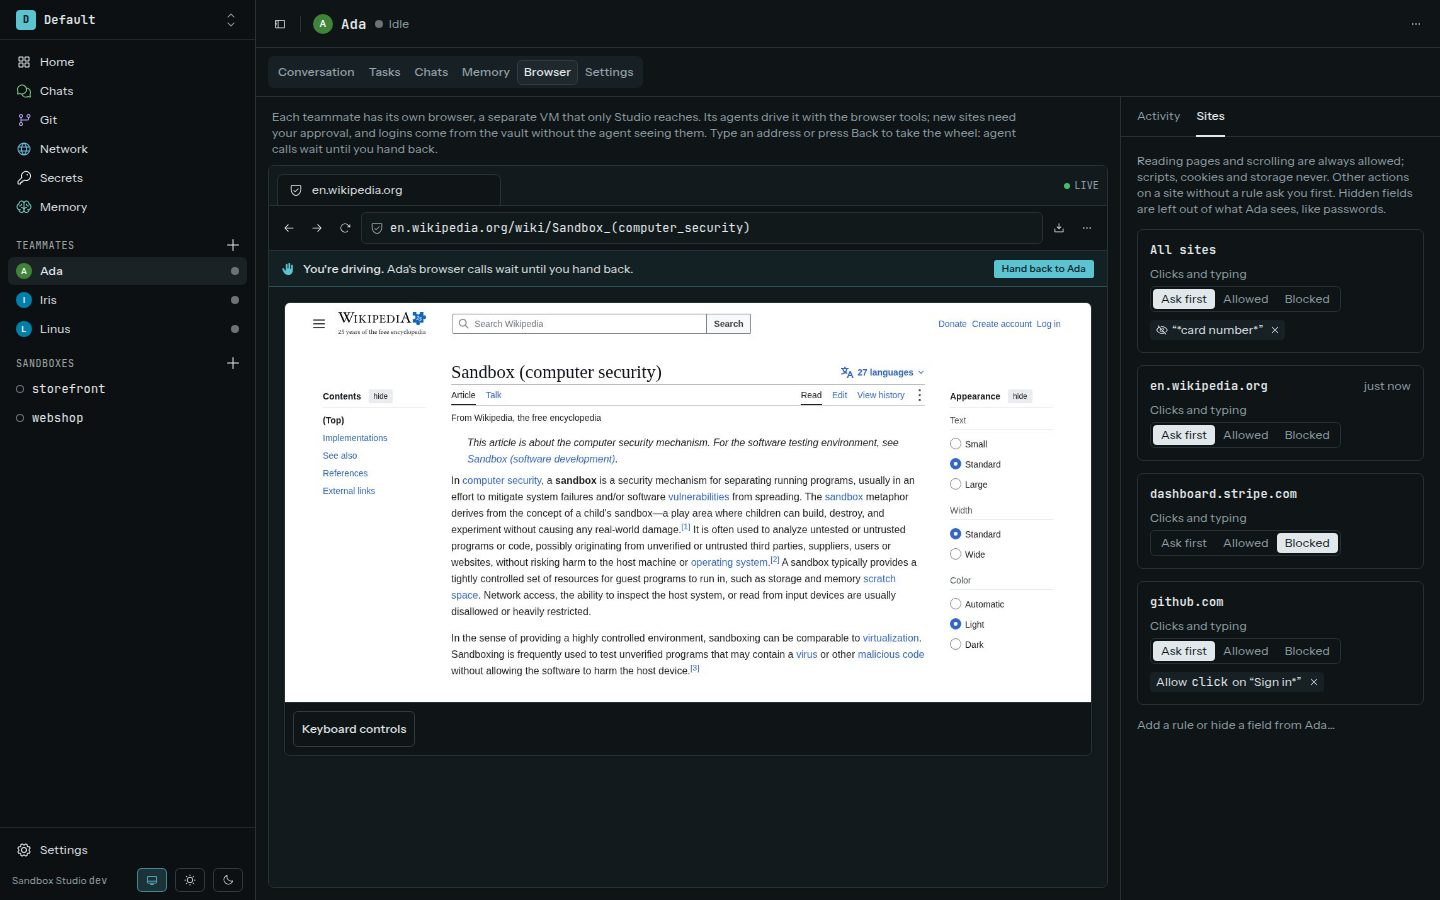
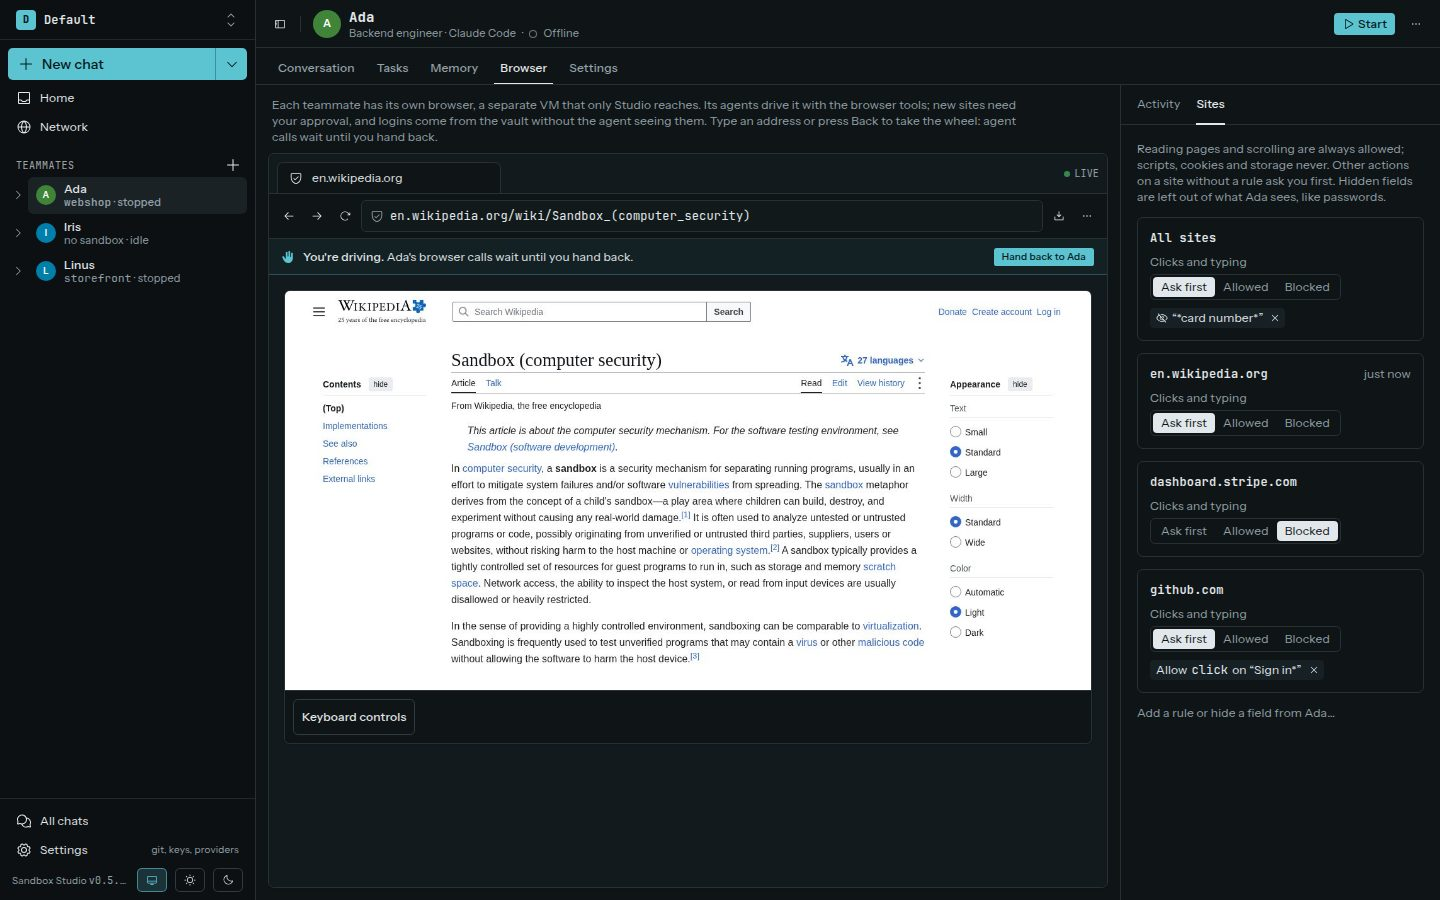
The site's screenshots show v0.5.2, and its sandbox, checkpoint and chat pages describe the sandbox header, its details and its options menu instead of the dashboard it replaced; the screenshot script opens New sandbox and the history sheet where they are now

diff --git a/site/src/content/docs/sandboxes.md b/site/src/content/docs/sandboxes.md
@@ -18,7 +18,7 @@ You can create a blank sandbox or choose a ready template from **Settings → Te
 
 ## Work in a terminal
 
-Open a sandbox from the sidebar to see its dashboard: a band with its status, owner, template, resources and age, then its chats, terminals, history and checkpoints, with ports and recent connections at the side. Choose **Workspace** in its header to work in it. Terminals run inside the sandbox at `/workspace`. Use **+** in the tab strip to open an additional terminal, run a shell yourself, or start the selected teammate's agent session with **Start session**. The sandbox's chats open in the same strip. The sidebar lists a running sandbox's terminals under its name, agent sessions included; choose one to open it in the workspace from any page. Docker runs inside the sandbox and uses its persistent Docker disk. The status line along the bottom of the workspace shows the sandbox's state, ID, template, ports and waiting approvals, and while it runs its CPU and memory use, such as `cpu 12% · mem 1.2/4 GiB` (CPU as a share of all its CPUs).
+Open a sandbox from the sidebar to work in it. Its header names its teammate and shows a pill with its state, CPUs and memory; the pill opens its details: template, resources, age, ID and listening ports, with **Start** or **Stop** and **Resources**. While the sandbox is down, the header also has **Start** or **Resume**. Terminals run inside the sandbox at `/workspace`. Use **+** in the tab strip for a new chat with the teammate, the teammate's agent in a terminal, or a shell. The sandbox's chats open in the same strip. The sidebar lists a running sandbox's terminals under its name, agent sessions included; choose one to open it in the workspace from any page. Docker runs inside the sandbox and uses its persistent Docker disk. The status line along the bottom of the workspace shows the sandbox's state, ID, template, ports and waiting approvals, and while it runs its CPU and memory use, such as `cpu 12% · mem 1.2/4 GiB` (CPU as a share of all its CPUs).
 
 ![A terminal open at /workspace in a running sandbox](../../assets/screenshots/sandbox-terminal.jpg)
 
@@ -26,17 +26,18 @@ To copy from a terminal, drag across the text: it is copied when you let go. Rig
 
 ## Stop, suspend, and resume
 
-Start and stop are on the dashboard. The options menu (**⋯**, on both pages) has these actions:
+The options menu (**⋯**) in the sandbox's header has these actions, and **Start** and **Resume** while it is down:
 
 | Action | What it does |
 | --- | --- |
+| **History and checkpoints** | Shows where the sandbox came from and its [checkpoints](../checkpoints/). |
 | **Stop** | Powers off the VM. Files on its disks stay, but running processes and terminal sessions end. Use **Start** to boot it again. |
 | **Suspend** | Pauses a running VM with its memory and processes. **Resume** continues it, including terminal sessions. Suspended memory does not survive a host reboot. |
 | **Fork** | Copies the sandbox into a new one with the same template and resources, then starts it. `/workspace` and the home directory are copied; Docker images, containers and volumes are not. The fork gets its own network approvals. |
 | **Rebase** | Moves the sandbox onto another template (see below). |
 | **Delete** | Permanently removes the sandbox and its disks. Export the sandbox first if you need a portable backup. |
 
-To change a sandbox's CPUs or memory, choose **Resources** on its dashboard. The change applies the next time the sandbox starts: the microsandbox version Studio uses can't resize a running VM, so stop and start a running sandbox to get it.
+To change a sandbox's CPUs or memory, choose **Resources** in the details its state pill opens. The change applies the next time the sandbox starts: the microsandbox version Studio uses can't resize a running VM, so stop and start a running sandbox to get it.
 
 ## Side panels
 
@@ -57,11 +58,11 @@ Once a sandbox was forked, the Home page has a **Family** card. It lists each te
 
 ## Open a preview
 
-If a web server is listening on a sandbox port, open **Previews** in the workspace toolbar and choose the port. The dashboard lists the ports too, each with **Open**. Studio opens a host-scoped `.localhost` link through the agent channel. The link is meant for the browser on the machine running Studio.
+If a web server is listening on a sandbox port, open **Previews** in the workspace toolbar and choose the port. The details its state pill opens list the ports too; choose one to open it. Studio opens a host-scoped `.localhost` link through the agent channel. The link is meant for the browser on the machine running Studio.
 
 Studio removes its own authentication cookies before forwarding preview requests and filters Studio cookies from preview responses. The preview app's own cookies are retained. Preview links do not expose the sandbox to your LAN.
 
-Each port keeps its own browser storage, so a service worker an app registered stays after the app stops, and may keep serving it to whatever runs on the port next. In **Previews**, choose **Open fresh** and then the port (or the broom next to **Open** on the dashboard, or **Reload fresh** in a chat's preview) to clear the preview's caches, storage and service workers before it opens. Its cookies stay.
+Each port keeps its own browser storage, so a service worker an app registered stays after the app stops, and may keep serving it to whatever runs on the port next. In **Previews**, choose **Open fresh** and then the port (or the broom next to a port in the sandbox's details, or **Reload fresh** in a chat's preview) to clear the preview's caches, storage and service workers before it opens. Its cookies stay.
 
 ## Export a workspace
 

diff --git a/site/src/content/docs/chat.md b/site/src/content/docs/chat.md
@@ -26,12 +26,12 @@ A Claude subscription runs chats too: Studio runs Claude Code itself for the tea
 
 ## Start a chat
 
-Open **All chats** in the sidebar and choose **New chat**, or choose **New chat** on a sandbox's dashboard or in its workspace. Pick the sandbox at the top, write what the teammate should do, and send. The chat starts with that first message, so there are no empty chats.
+Open **All chats** in the sidebar and choose **New chat**, or choose **+** in a sandbox's tab strip and **New chat with** its teammate. Pick the sandbox at the top, write what the teammate should do, and send. The chat starts with that first message, so there are no empty chats.
 
 - **Enter** sends; **Shift+Enter** starts a new line.
 - Use the paperclip to attach files, up to 10 MiB per message in total.
 - While the teammate works, **Stop** ends the current request. A message you send meanwhile waits above the box and goes as soon as the teammate finishes, so you can steer it without stopping it. Messages wait in the order you sent them; **Edit** takes one back into the box, the **×** removes it. Waiting messages don't survive a restart of Studio.
-- The agent may give the chat a title as it goes. **Chats** lists every chat of the environment; a sandbox lists its own on its dashboard and in its workspace.
+- The agent may give the chat a title as it goes. **Chats** lists every chat of the environment; a sandbox lists its own in its workspace.
 - In a sandbox's workspace, the **Chats** menu and the chat tabs mark a chat whose agent is working with a pulsing grey dot, and one with something you haven't seen yet, such as a finished reply or a chat that started while you were away, in green, until you open it. What you have seen is remembered in this browser. The chat tabs you had open come back when you reload the page.
 
 The chat shows the agent's replies, what it is thinking, the tools it runs (expand a card to see details such as edits and output), and its plan as a checklist while it works. Under each finished request you see how many files it changed and, if the agent reports it, tokens, cost, and how full its memory is.

diff --git a/site/src/content/docs/checkpoints.md b/site/src/content/docs/checkpoints.md
@@ -11,7 +11,7 @@ You can save a checkpoint while a sandbox is running or stopped. If it is runnin
 
 ## Save and delete
 
-The **Checkpoints** section of the sandbox's dashboard lists them. Select **Save checkpoint**, enter a name and select **Save**.
+Choose **History and checkpoints** in the options menu (**⋯**) of the sandbox's header to see them. Select **Save checkpoint** there, or **Checkpoint** in the header, enter a name and select **Save**.
 
 Deleting a checkpoint removes only that snapshot, in any order. It does not change the sandbox.
 
